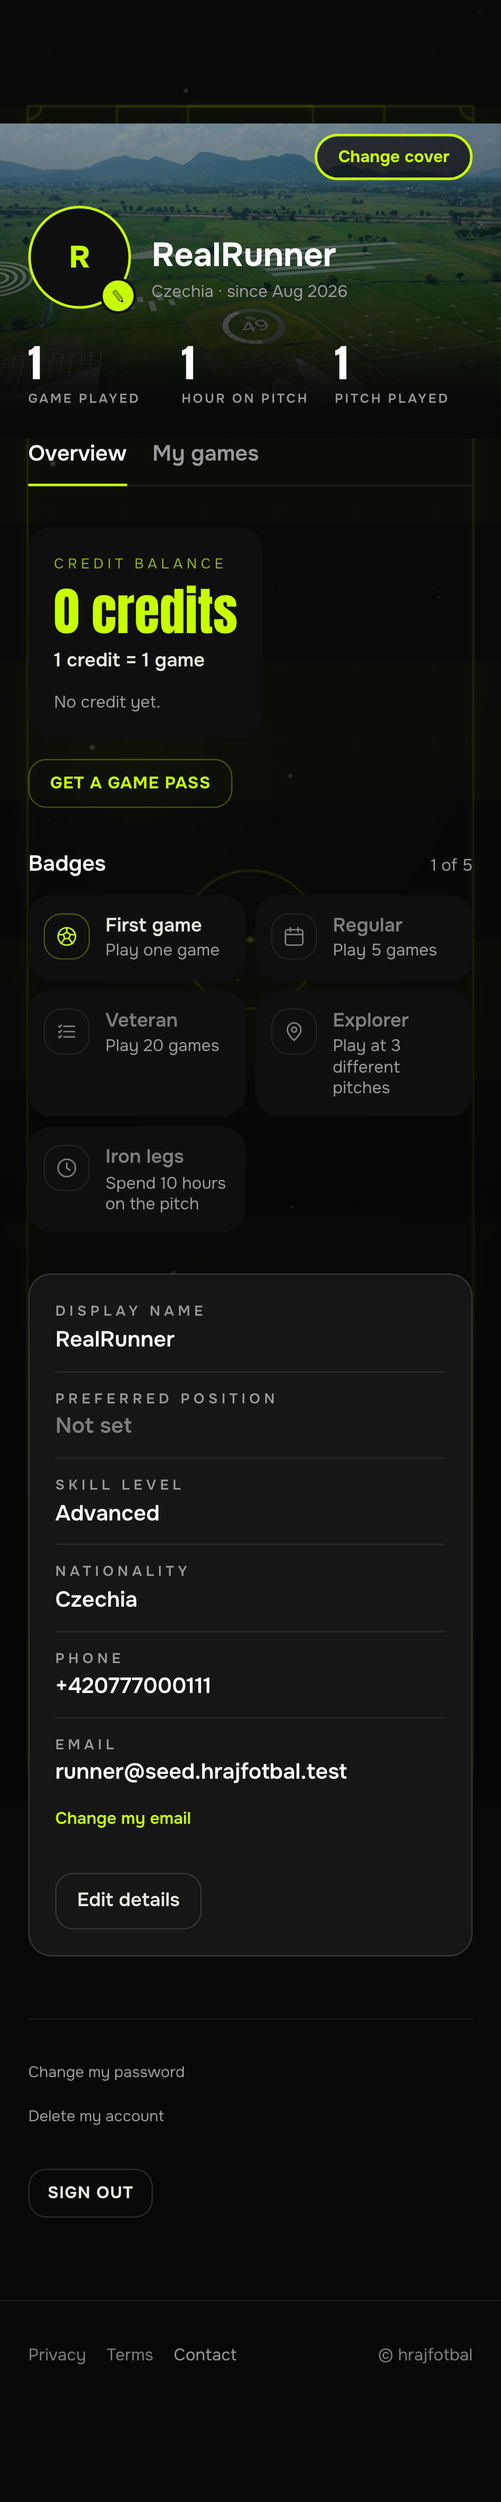
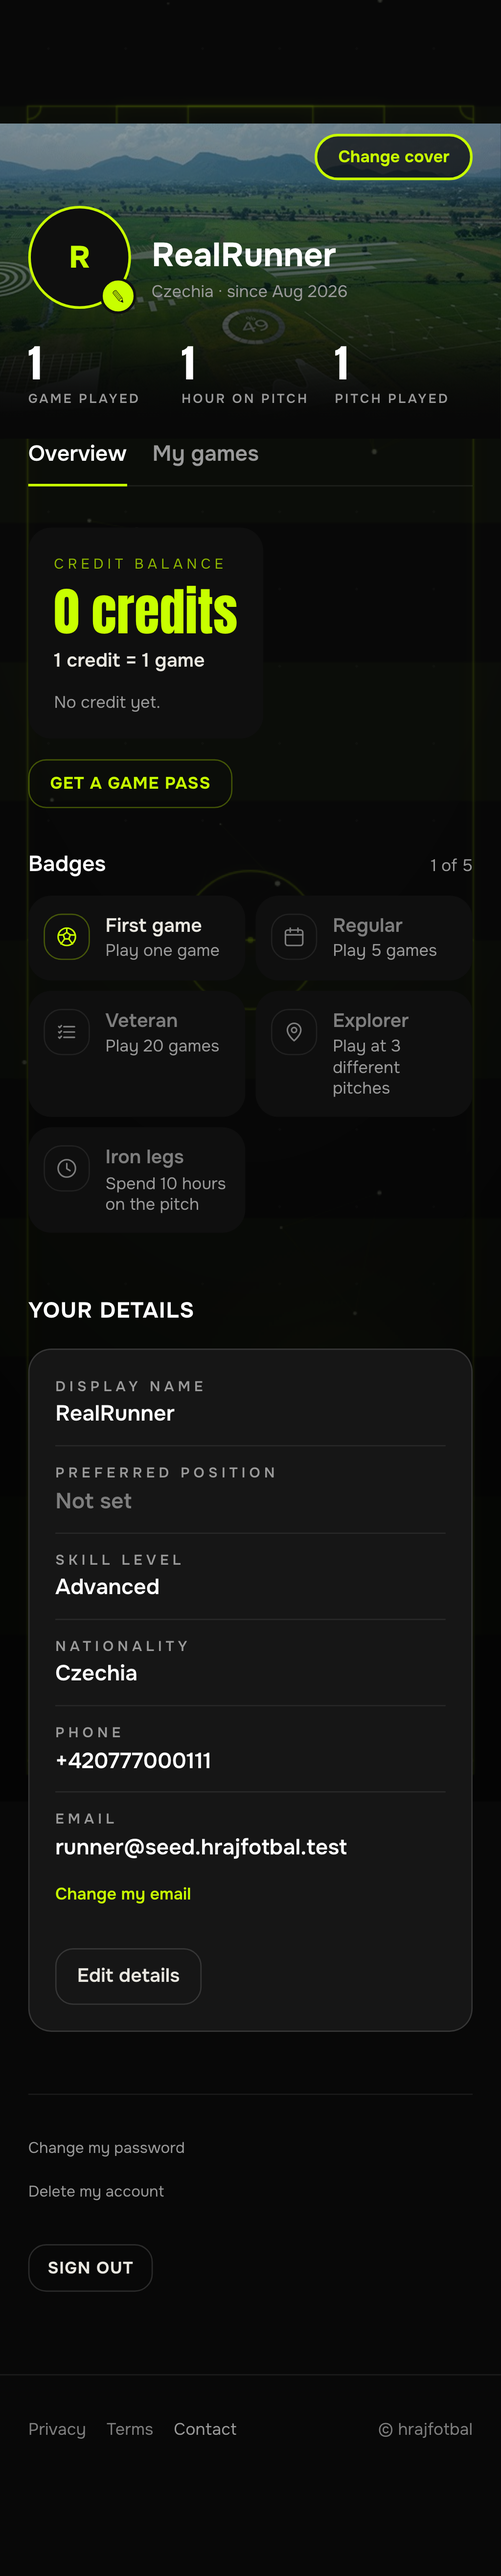
Round 16 improvement pass: two things the walk found
A LABEL WITH NOTHING BESIDE IT. `CardBadges` renders null when a game
has neither format nor surface, and `subs_per_team` is usually null —
so the fact list printed the term FORMAT against an empty definition.
That is the "Meeting point: —" problem the old practical card was
careful to avoid, arriving through a different door: there the
placeholder was deliberate and removed, here it was a missing guard.

Item 10 made surface required, which stops NEW games doing it; games
created before tonight can still carry neither, so the guard stays. The
assertion is structural rather than fixture-bound — every `<dt>` in the
list must have a non-empty `<dd>` — so it holds for whatever the seed
contains and for whatever a later round adds to the card.

AND THE DETAILS BLOCK LOST ITS CONTEXT when item 14 moved it. Under
Settings it WAS the screen and explained itself; on the overview it
follows the badge grid, and a reader scrolling past meets a card that
opens with "DISPLAY NAME" and no statement of what they are looking at.
The wallet and the badges both announce themselves; this is the one
that stopped when it moved.

Both found by screenshotting the product at 390 rather than by reading
the diff, which is the only way either would have surfaced.

diff --git a/components/game/InfoCard.tsx b/components/game/InfoCard.tsx
@@ -148,15 +148,33 @@ export async function InfoCard({
           reader may do; sharing a row with the format made it a decoration
           beside one.
         */}
-        <dt className={FACT_LABEL}>{t.games.infoFormat}</dt>
-        <dd className="m-0 flex flex-wrap items-center gap-2">
-          <CardBadges format={game.format} surface={game.surface} />
-          {game.subs_per_team !== null && (
-            <span data-testid="game-subs" className="text-small text-muted">
-              {t.games.subsPerTeam.replace("{count}", String(game.subs_per_team))}
-            </span>
-          )}
-        </dd>
+        {/*
+          THE ROW IS CONDITIONAL, and finding out why is worth the line.
+
+          `CardBadges` returns null when a game has neither a format nor a
+          surface, and `subs_per_team` is usually null — so on such a game this
+          rendered the word FORMAT with an empty box beside it. A definition
+          list with a term and no definition is the "Meeting point: —" problem
+          the old practical card was careful to avoid, arriving through a
+          different door: there the placeholder was written on purpose and
+          removed, here it was the absence of a guard.
+
+          It still matters after item 10 made surface required. That rule binds
+          new saves; games created before tonight can carry neither.
+        */}
+        {(game.format || game.surface || game.subs_per_team !== null) && (
+          <>
+            <dt className={FACT_LABEL}>{t.games.infoFormat}</dt>
+            <dd className="m-0 flex flex-wrap items-center gap-2">
+              <CardBadges format={game.format} surface={game.surface} />
+              {game.subs_per_team !== null && (
+                <span data-testid="game-subs" className="text-small text-muted">
+                  {t.games.subsPerTeam.replace("{count}", String(game.subs_per_team))}
+                </span>
+              )}
+            </dd>
+          </>
+        )}
 
         {game.allowed_skill_levels && (
           <>

diff --git a/e2e/games.spec.ts b/e2e/games.spec.ts
@@ -1208,6 +1208,30 @@ test("the detail carries arrival and duration, with equipment in the venue grid"
     await expect(info.getByTestId("game-duration")).toContainText("90 minutes");
     await expect(info.getByTestId("game-arrival")).toContainText("10 minutes before");
 
+    /*
+     * NO LABEL WITHOUT A VALUE (round 16 improvement pass).
+     *
+     * `CardBadges` renders nothing when a game has neither format nor
+     * surface, so the Format row used to print its term with an empty
+     * definition beside it — the "Meeting point: —" problem arriving through
+     * a different door. Asserted structurally rather than on one fixture:
+     * every `<dt>` in this list must have a `<dd>` with something in it,
+     * which holds for whatever the seed happens to contain.
+     */
+    const emptyTerms = await info.evaluate((card) => {
+      const list = card.querySelector("dl");
+      if (!list) return ["no dl"];
+      const out: string[] = [];
+      list.querySelectorAll("dt").forEach((term) => {
+        const value = term.nextElementSibling;
+        if (!value || value.tagName !== "DD" || (value.textContent ?? "").trim() === "") {
+          out.push((term.textContent ?? "").trim());
+        }
+      });
+      return out;
+    });
+    expect(emptyTerms, "a fact label is rendered with nothing beside it").toEqual([]);
+
     // Equipment is a venue claim, and it is not in the fact card either.
     await expect(info).not.toContainText("bibs");
 

diff --git a/app/account/page.tsx b/app/account/page.tsx
@@ -235,7 +235,21 @@ export default async function AccountPage({
             the page had a photo, a balance and a list of links, and no way to
             change the six facts the product knows about you.
           */}
-          <div className="mt-8">
+          {/*
+            A HEADING, WHICH IT DID NOT NEED AS A TAB AND DOES NOW.
+
+            Under Settings this block WAS the screen, so it explained itself.
+            On the overview it follows the badge grid, and a reader scrolling
+            past meets a card that opens with "DISPLAY NAME" and no statement
+            of what they are looking at. The other two blocks on this tab —
+            the wallet and the badges — both announce themselves; this is the
+            one that stopped doing so when it moved.
+          */}
+          <h2 className="mt-12 mb-0 text-[17px] font-bold uppercase tracking-wide text-white">
+            {t.profile.detailsTitle}
+          </h2>
+
+          <div className="mt-4">
             <ProfileDetails
               nickname={player.nickname}
               phone={player.phone}

diff --git a/lib/strings.ts b/lib/strings.ts
@@ -899,6 +899,9 @@ export const strings = {
      * of translated words could not be grouped by, and the CHECK would have to
      * list every translation.
      */
+    /* Round 16 improvement pass — the block lost its context when item 14
+       moved it off a tab of its own onto the overview. */
+    detailsTitle: "Your details",
     editDetails: "Edit details",
     saveProfile: "Save profile",
     cancelEdit: "Cancel",

diff --git a/lib/i18n/ru.ts b/lib/i18n/ru.ts
@@ -451,6 +451,8 @@ export const ru: StringsOverlay = {
   },
 
   profile: {
+    // Round 16 improvement pass — DRAFT.
+    detailsTitle: "Твои данные",
     editDetails: "Изменить данные",
     saveProfile: "Сохранить профиль",
     cancelEdit: "Отмена",

diff --git a/lib/i18n/cs.ts b/lib/i18n/cs.ts
@@ -446,6 +446,8 @@ export const cs: StringsOverlay = {
   },
 
   profile: {
+    // Round 16 improvement pass — DRAFT.
+    detailsTitle: "Tvoje údaje",
     editDetails: "Upravit údaje",
     saveProfile: "Uložit profil",
     cancelEdit: "Zrušit",
